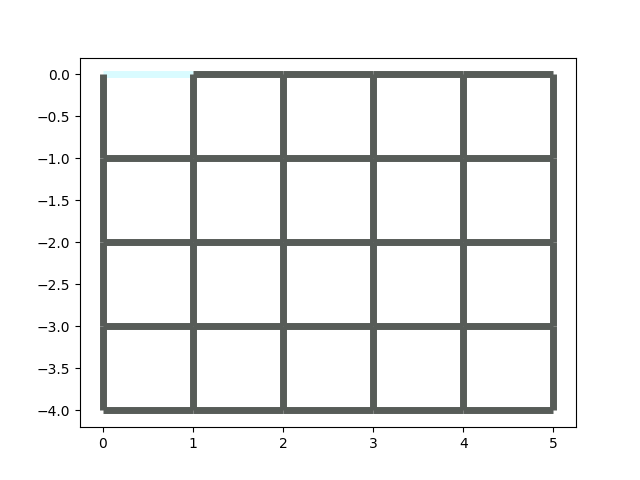
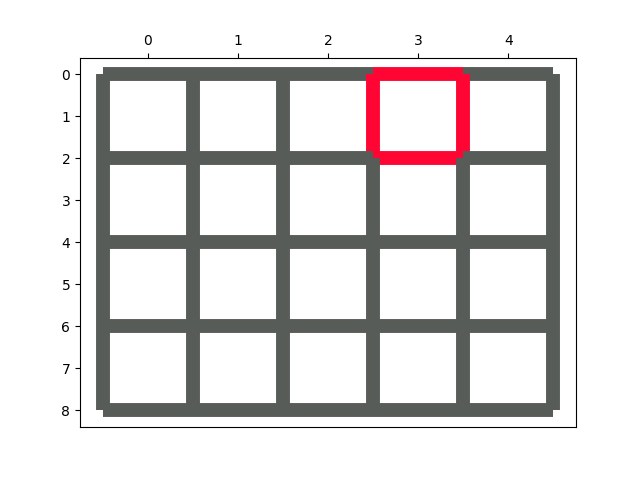
Moved board display matplotlib function into GameBoard class. Added One and Zero classes. Added placing functionality for a cell and down/right facing. TODO: left/up facing placements. TODO: use deepcopy to not alter original game board until we fully know the placements are correct. TODO: add an ab

diff --git a/src/gameboard.py b/src/gameboard.py
@@ -7,7 +7,30 @@
 #  - - - - -
 # | | | | | |
 #  - - - - -
-from segment import Segment
+from matplotlib.path import Path
+from matplotlib.patches import PathPatch
+from matplotlib.collections import PatchCollection
+import matplotlib.pyplot as plt
+import os
+from typing import Literal, Tuple
+
+from digits.segment import Segment
+
+
+COLOR_MAPPING = {
+    0: '#ff0533',
+    1: '#ffc105',
+    2: '#fbff05',
+    3: '#c9ff05',
+    4: '#0a9100',
+    5: '#d9fbff',
+    6: '#07abf7',
+    7: '#0234bf',
+    8: '#4d02b0',
+    9: '#f73bf4',
+    None: '#575c58'
+}
+
 
 
 class GameBoard:
@@ -21,20 +44,172 @@ class GameBoard:
                 for _ in range(6):
                     row.append(Segment('vertical'))
 
-    # def __str__(self) -> str:
-    #     return self.board
+    def draw(self, save_file_name: str = None):
+        """Draws the current state of the game board and returns the fig, ax.
+
+        Optionally, if a save_file_name is provided as a string, saves the 
+        image to disk, in the same dir as this .py file.
+
+        Args:
+            save_file_name (str, optional): file name to save the game board image state to, 
+            without extension. None to not save. Defaults to None.  
+
+        Returns:
+            Figure: instance of matplotlib Figure, containing the game board plot.
+            Axes: instance of matplotlib pyplot Axes, containing the game board plot.
+        """
+        vertices = []
+        codes = []
+        colors = []
+
+        for row_idx, row in enumerate(board.board):
+            row_idx = row_idx//2 * -1
+            for segment_idx, segment in enumerate(row):
+                codes.append([Path.MOVETO, Path.LINETO])
+                colors.append(COLOR_MAPPING[segment.get_value()])
+                vert_temp = []
+                vert_temp += [(segment_idx, row_idx)]
+                if segment.get_direction() == 'horizontal':
+                    vert_temp += [(segment_idx + 1, row_idx)]
+                else:
+                    vert_temp += [(segment_idx, row_idx - 1)]
+                vertices.append(vert_temp)
+
+        pathpatches = [PathPatch(Path(vertices[i], codes[i]), edgecolor=colors[i], linewidth=10) for i in range(len(vertices))]
+
+        collection = PatchCollection(pathpatches, match_original=True)
+
+        fig, ax = plt.subplots()
+
+        ax.add_collection(collection)
+        ax.autoscale_view()
+        ax.set_xticks([i + 0.5 for i in range(5)], labels=[str(i) for i in range(5)])
+        ax.set_yticks([-1 * i/2 for i in range(9)], labels=[str(i) for i in range(9)])
+        ax.xaxis.tick_top()
+
+        if save_file_name:
+            save_path = os.path.abspath(os.path.dirname(__file__))
+            save_file_path = os.path.join(save_path, f"{save_file_name}.png")
+            fig.savefig(save_file_path)
+
+        return fig, ax
+
+    def __str__(self) -> str:
+        output = ''
+        for index, row in enumerate(board.board):
+            # row of horizontal segments
+            if index % 2 == 0:
+                output += ' '
+                for segment in row:
+                    output += str(segment) + ' '
+            # row of vertical segments
+            else:
+                for segment in row:
+                    output += str(segment) + ' '
+            output += '\n'
+        return output
     
+    def place_digit(self, digit: int, location: Tuple[int, int], direction: Literal['down', 'right', 'left', 'up']) -> None:
+        
+        pass
+    
+
+def place_segment(digit_segment: Segment, current_location: Tuple[int, int]):
+    try:
+        current_board_segment: Segment = board.board[current_location[0]][current_location[1]]
+    except IndexError:
+        raise IndexError(f"Cannot place digit {digit_segment.get_value()}. Selected placement is out of grid bounds: {current_location}")
+
+    if current_board_segment.get_value() is not None and digit_segment.get_value() is not None:
+        raise ValueError(f'Cannot place digit {digit_segment.get_value()}. Segment at location {current_location} is occupied by: {current_board_segment}')
+    elif current_board_segment.get_direction() != digit_segment.get_direction():
+        raise ValueError(f'Cannot place digit {digit_segment.get_value()}. {current_board_segment.get_direction().capitalize()} segment at location {current_location} does not match the direction of the {digit_segment.get_direction()} digit segment.')
+    else:
+        current_board_segment.set_value(digit_segment.get_value())
+
 
 if __name__ == '__main__':
     board = GameBoard()
-    board.board[0][0]
 
-    for index, row in enumerate(board.board):
-        if index % 2 == 0:
-            print(' ', end='')
-            for segment in row:
-                print(segment, end=' ')
-        else:
-            for segment in row:
-                print(segment, end=' ')
-        print()
+    from digits.zero import Zero
+    from digits.one import One
+    zero = Zero()
+    one = One()
+    
+    start_location = (1,3)  # row, col
+    current_location = start_location
+    direction = 'right'
+    digit = zero
+    
+    if direction == 'down':
+        for row in digit.get_grid(direction=direction):
+            for digit_segment in row:
+                place_segment(digit_segment, current_location)
+                # try:
+                #     current_board_segment: Segment = board.board[current_location[0]][current_location[1]]
+                # except IndexError:
+                #     raise IndexError(f"Cannot place digit {digit_segment.get_value()}. Selected placement is out of grid bounds: {current_location}")
+
+                # if current_board_segment.get_value() is not None and digit_segment.get_value() is not None:
+                #     raise ValueError(f'Cannot place digit {digit_segment.get_value()}. Segment at location {current_location} is occupied by: {current_board_segment}')
+                # elif current_board_segment.get_direction() != digit_segment.get_direction():
+                #     raise ValueError(f'Cannot place digit {digit_segment.get_value()}. {current_board_segment.get_direction().capitalize()} segment at location {current_location} does not match the direction of the {digit_segment.get_direction()} digit segment.')
+                # else:
+                #     current_board_segment.set_value(digit_segment.get_value())
+
+                # go to next column
+                current_location = (current_location[0], current_location[1] + 1)
+            # go to next row, refresh column back to start
+            current_location = (current_location[0] + 1, start_location[1])
+
+    elif direction == 'right':
+        for column_index, column in enumerate(digit.get_grid(direction=direction)):
+            # for vertical columns 
+            if column_index % 2 == 0:
+                for digit_segment in column:
+                    place_segment(digit_segment, current_location)
+                    # try:
+                    #     current_board_segment: Segment = board.board[current_location[0]][current_location[1]]
+                    # except IndexError:
+                    #     raise IndexError(f"Cannot place digit {digit_segment.get_value()}. Selected placement is out of grid bounds: {current_location}")
+
+                    # if current_board_segment.get_value() is not None and digit_segment.get_value() is not None:
+                    #     raise ValueError(f'Cannot place digit {digit_segment.get_value()}. Segment at location {current_location} is occupied by: {current_board_segment}')
+                    # elif current_board_segment.get_direction() != digit_segment.get_direction():
+                    #     raise ValueError(f'Cannot place digit {digit_segment.get_value()}. {current_board_segment.get_direction().capitalize()} segment at location {current_location} does not match the direction of the {digit_segment.get_direction()} digit segment.')
+                    # else:
+                    #     current_board_segment.set_value(digit_segment.get_value())
+
+                    # go to next row
+                    current_location = (current_location[0] + 1, current_location[1])
+            # for horizontal columns
+            else:
+                current_location = (start_location[0] - 1, current_location[1])
+                for digit_segment in column:
+                    place_segment(digit_segment, current_location)
+                    # try:
+                    #     current_board_segment: Segment = board.board[current_location[0]][current_location[1]]
+                    # except IndexError:
+                    #     raise IndexError(f"Cannot place digit {digit_segment.get_value()}. Selected placement is out of grid bounds: {current_location}")
+
+                    # if current_board_segment.get_value() is not None and digit_segment.get_value() is not None:
+                    #     raise ValueError(f'Cannot place digit {digit_segment.get_value()}. Segment at location {current_location} is occupied by: {current_board_segment}.')
+                    # elif current_board_segment.get_direction() != digit_segment.get_direction():
+                    #     raise ValueError(f'Cannot place digit {digit_segment.get_value()}. {current_board_segment.get_direction().capitalize()} segment at location {current_location} does not match the direction of the {digit_segment.get_direction()} digit segment.')
+                    # else:
+                    #     current_board_segment.set_value(digit_segment.get_value())
+
+                    # go to next row
+                    current_location = (current_location[0] + 2, current_location[1])
+                # go to next column, refresh row back to start
+                current_location = (start_location[0], current_location[1] + 1)
+    
+    board.draw(save_file_name='output')
+
+    # for index, row in enumerate(self.board):
+    #     if index % 2 == 0:
+    #         for _ in range(5):
+    #             row.append(Segment('horizontal'))
+    #     else:
+    #         for _ in range(6):
+    #             row.append(Segment('vertical'))

diff --git a/src/digits/one.py b/src/digits/one.py
@@ -1,0 +1,30 @@
+from .segment import Segment
+from typing import Literal
+
+class One:
+    def __init__(self) -> None:
+        self._value = 1
+
+    def get_grid(self, direction: Literal['down', 'right', 'left', 'up']) -> list[list[Segment]]:
+        if direction == 'down':
+            # grid is showing the shape of the digit: row by row
+            grid = [
+                [Segment('horizontal', value=None)],
+                [Segment('vertical', value=self._value)],
+                [Segment('horizontal', value=None)],
+                [Segment('vertical', value=self._value)]
+            ]
+        elif direction == 'right':
+            # column by column
+            grid = [
+                [Segment('vertical', value=None)],
+                [Segment('horizontal', value=self._value)],
+                [Segment('vertical', value=None)],
+                [Segment('horizontal', value=self._value)]
+            ]
+        else:
+            pass
+        return grid
+
+    def get_value(self):
+        return self._value

diff --git a/src/digits/zero.py b/src/digits/zero.py
@@ -1,0 +1,28 @@
+from .segment import Segment
+from typing import Literal
+
+class Zero:
+    def __init__(self) -> None:
+        self._value = 0
+
+    def get_grid(self, direction: Literal['down', 'right', 'left', 'up']) -> list[list[Segment]]:
+        if direction == 'down':
+            # grid is showing the shape of the digit: row by row
+            grid = [
+                [Segment('horizontal', value=self._value)],
+                [Segment('vertical', value=self._value), Segment('vertical', value=self._value)],
+                [Segment('horizontal', value=self._value)]
+            ]
+        elif direction == 'right':
+            # column by column
+            grid = [
+                [Segment('vertical', value=self._value)],
+                [Segment('horizontal', value=self._value), Segment('horizontal', value=self._value)],
+                [Segment('vertical', value=self._value)]
+            ]
+        else:
+            pass
+        return grid
+
+    def get_value(self):
+        return self._value

diff --git a/src/digits/game_digit.py b/src/digits/game_digit.py
@@ -1,0 +1,38 @@
+from abc import ABC, abstractmethod
+
+class GameDigit(ABC):
+    @abstractmethod
+    def _set_grid(self):
+        pass
+
+    @abstractmethod
+    def get_grid(self):
+        pass
+    
+    @abstractmethod
+    def _set_value(self):
+        pass
+
+    @abstractmethod
+    def get_value(self):
+        pass
+
+    @abstractmethod
+    def set_direction(self):
+        pass
+
+    @abstractmethod
+    def get_direction(self):
+        pass
+    
+
+class Zero(GameDigit):
+    def __init__(self) -> None:
+        self.value = self._set_value()
+
+    def _set_value(self):
+        self.value = 0        
+
+
+if __name__ == '__main__':
+    zero = Zero()

diff --git a/src/digits/segment.py b/src/digits/segment.py
@@ -32,8 +32,8 @@ class Segment:
         return self._value
     
     def __str__(self) -> str:
-        # return f"{'|' if self._direction == 'vertical' else '_'}{self._value}"
-        return f"{('|' if self._direction == 'vertical' else '_') if self._value else '.'}"
+        return f"{'|' if self._direction == 'vertical' else '_'}{self._value}"
+        # return f"{('|' if self._direction == 'vertical' else '_') if self._value else '.'}"
     
     def __repr__(self) -> str:
         # return f"{('|' if self._direction == 'vertical' else '_') if self._value else '.'}"
